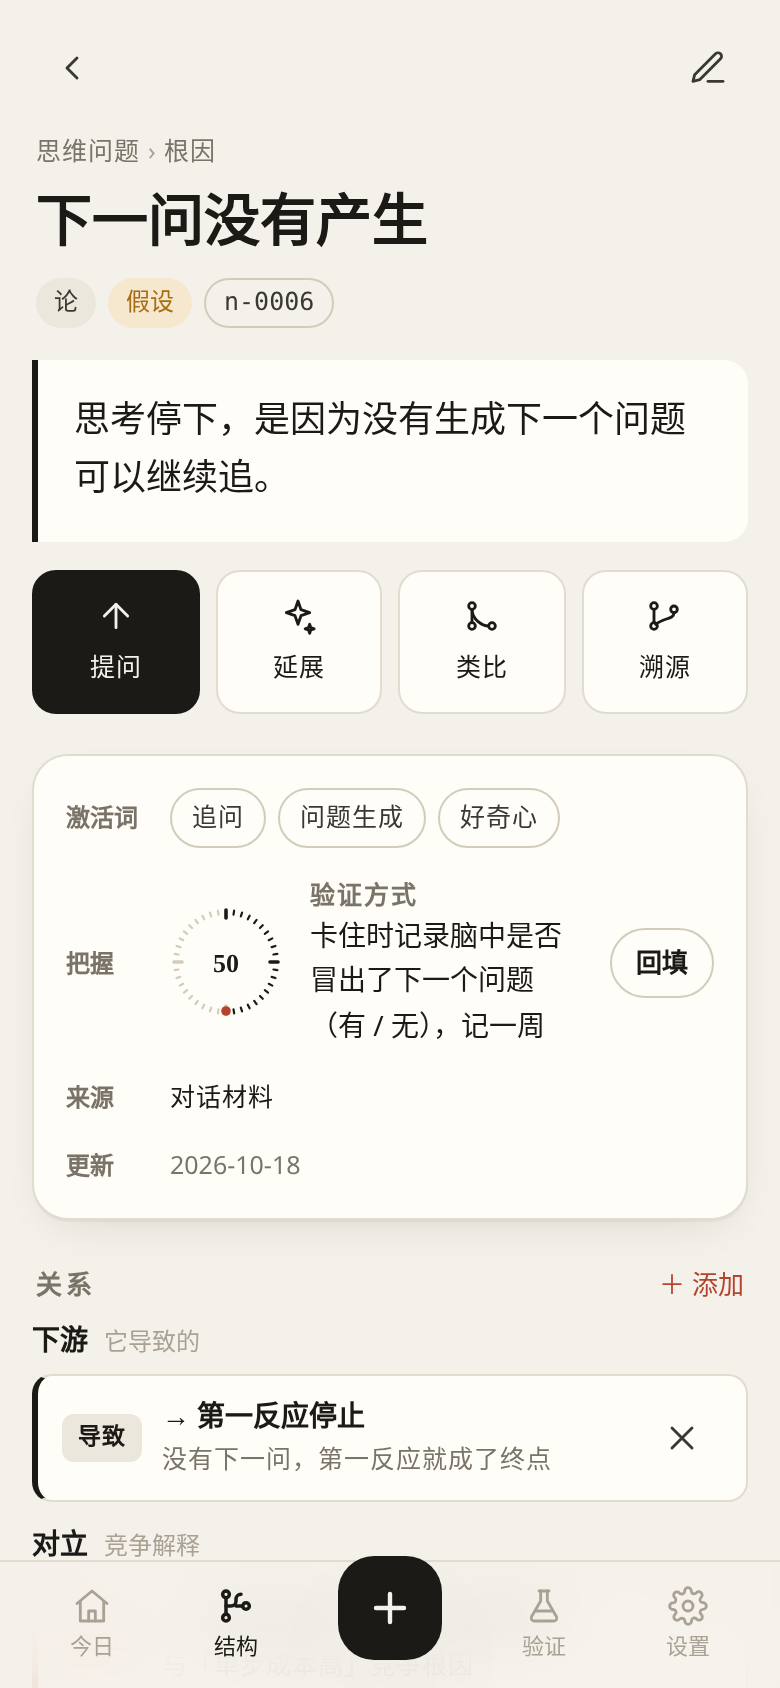
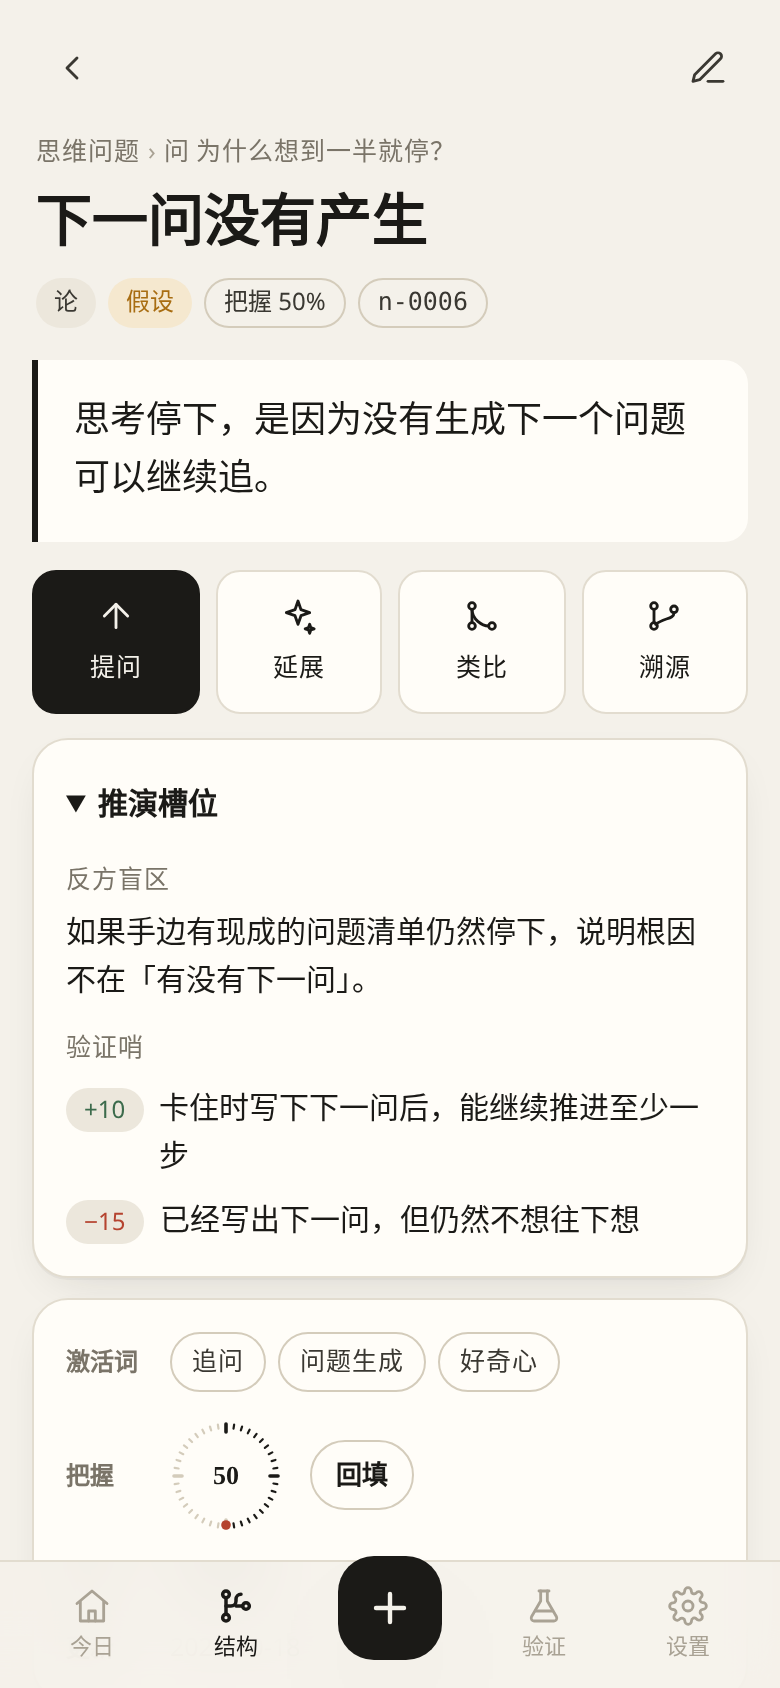
脉络 V2 T02: 节点槽位编辑与挂载选择器

diff --git a/mailuo/www/js/app.js b/mailuo/www/js/app.js
@@ -1,5 +1,5 @@
 import { h, icon, brandMark, veinArt, dial, toast, sheet, confirmSheet, waiting, glyph, nodeRow, relTag, swipeable } from './ui.js';
-import { Store, TYPES, STATUSES, blankNode, normalizeType, normalizeSentinels, REL_TYPES, REL_HINT, REL_VIEW, findDuplicate, findAnalogies, today, MOUNT_RULES } from './model.js';
+import { Store, TYPES, SLOTS, STATUSES, blankNode, normalizeType, normalizeSentinels, REL_TYPES, REL_HINT, REL_VIEW, findDuplicate, findAnalogies, today, MOUNT_RULES } from './model.js';
 import { openVault, IdbVault, FsVault, CapVault, exportZip, importZip, listSnapshots, snapshot, dailySnapshot, restoreSnapshot } from './vault.js';
 import { getConfig, setConfig, usage, callModel, PROMPT_SPLIT, splitUserMessage, extractJson, normalizeSplit, PROMPT_THINK, parseAnswer, PRESETS, estimateTokens, PROMPT_KEYWORDS, keywordsUserMessage } from './llm.js';
 import { buildPack, MODE_QUESTIONS, libraryTokens, systemOutline } from './pack.js';
@@ -370,45 +370,118 @@ function newSystemSheet() {
 }
 
 // ---------------- 节点编辑 ----------------
+// 挂载选择器供编辑、候选和体检共用；由 Store 统一判断合法目标。
+function mountPicker(getNode, initial = '') {
+  let value = initial;
+  const q = h('input', { class: 'input', type: 'search', placeholder: '搜索可挂载节点', 'aria-label': '搜索挂载目标' });
+  const list = h('div', { class: 'list mount-list', 'data-testid': 'mount-list' });
+  const label = h('summary');
+  const draw = () => {
+    const n = getNode();
+    label.textContent = '挂在：' + (store.nodes.get(value)?.title || '不挂载');
+    list.replaceChildren(h('button', { class: 'btn sm', onclick: () => { value = ''; draw(); } }, !value ? '✓ 不挂载' : '不挂载'));
+    const all = store.list().filter((x) => !store.canMount(n, x.id) && (!q.value || [x.title, ...x.keywords].some((t) => t.includes(q.value))));
+    for (const x of all) list.append(nodeRow(x, () => { value = x.id; draw(); }, value === x.id ? icon('check') : h('span', { class: 'small muted' }, x.type)));
+  };
+  q.addEventListener('input', draw);
+  draw();
+  return { el: h('details', { class: 'mount-picker' }, label, q, list), read: () => value, refresh: () => {
+    if (value && store.canMount(getNode(), value)) value = '';
+    draw();
+  } };
+}
+
+function sentinelView(sentinels) {
+  return h('div', { class: 'sentinels' }, (sentinels || []).map((s) => h('div', { class: 'sentinel' },
+    h('span', { class: 'pill ' + (s.delta > 0 ? 'positive' : s.delta < 0 ? 'negative' : 'muted') }, s.delta > 0 ? '+' + s.delta : s.delta < 0 ? '−' + Math.abs(s.delta) : '待定'),
+    h('span', {}, s.when))));
+}
+
+function slotView(n, onEmpty) {
+  return h('details', { class: 'card slots mt', open: true }, h('summary', {}, '推演槽位'),
+    (SLOTS[n.type] || []).map((s) => {
+      const value = n[s.key], empty = !value || (Array.isArray(value) && !value.length);
+      return h('div', { class: 'slot' }, h('div', { class: 'small muted' }, s.label),
+        empty ? h('button', { class: 'btn ghost sm muted', onclick: onEmpty || (() => {}) }, '待补：' + s.hint)
+          : s.kind === 'list' ? h('div', { class: 'chips' }, value.map((v) => h('span', { class: 'kw' }, v)))
+          : s.kind === 'sentinels' ? sentinelView(value) : h('p', {}, value));
+    }));
+}
+
 function nodeForm(n, { systemEditable = true } = {}) {
-  const f = {};
-  f.title = h('input', { class: 'input', value: n.title || '', placeholder: '短名' });
-  f.claim = h('textarea', { class: 'input', rows: 2, placeholder: '一句结论' }, n.claim || '');
-  f.note = h('textarea', { class: 'input', rows: 2, placeholder: '最多 3 行说明（可空）' }, n.note || '');
-  f.type = h('select', { class: 'input' }, TYPES.map((t) => h('option', { value: t, selected: t === n.type }, t)));
+  n = blankNode(n);
+  const f = {}, field = (label, input, key) => h('div', { class: 'field', 'data-field': key }, h('label', {}, label), input);
+  let type = normalizeType(n.type);
+  f.title = h('input', { class: 'input', value: n.title, 'data-testid': 'node-title', placeholder: '短名' });
+  f.claim = h('textarea', { class: 'input', rows: 2, 'data-testid': 'node-claim' }, n.claim);
+  f.note = h('textarea', { class: 'input', rows: 3 }, n.note);
   f.status = h('select', { class: 'input' }, STATUSES.map((t) => h('option', { value: t, selected: t === n.status }, t)));
-  f.keywords = h('input', { class: 'input', value: (n.keywords || []).join('、'), placeholder: '3–5 个，用顿号或逗号分隔' });
+  f.keywords = h('input', { class: 'input', value: n.keywords.join('、'), placeholder: '3–5 个，用顿号或逗号分隔' });
   const confLabel = h('span', {}, (n.confidence ?? 50) + '%');
-  f.confidence = h('input', { type: 'range', min: 0, max: 100, step: 5, value: n.confidence ?? 50, oninput: () => { confLabel.textContent = f.confidence.value + '%'; } });
-  f.verify = h('input', { class: 'input', value: n.verify || '', placeholder: '一句话，假设类必填' });
-  f.source = h('input', { class: 'input', value: n.source || '', placeholder: '自己 / AI 名称 / 资料' });
+  f.confidence = h('input', { type: 'range', min: 0, max: 100, step: 1, value: n.confidence ?? 50, 'aria-label': '把握', oninput: () => { confLabel.textContent = f.confidence.value + '%'; } });
+  f.source = h('input', { class: 'input', value: n.source, placeholder: '自己 / AI 名称 / 资料' });
   f.system = h('select', { class: 'input', disabled: !systemEditable }, [...store.systems.keys()].map((s) => h('option', { value: s, selected: s === n.system }, s)));
-  const parentWrap = h('div', { class: 'small muted' }, '挂在：' + (store.nodes.get(n.under)?.title || '不挂载'));
-  const el = h('div', {},
-    h('div', { class: 'field' }, h('label', {}, '标题'), f.title),
-    h('div', { class: 'field' }, h('label', {}, '结论'), f.claim),
-    h('div', { class: 'row' }, h('div', { class: 'field' }, h('label', {}, '类型'), f.type), h('div', { class: 'field' }, h('label', {}, '状态'), f.status)),
-    h('div', { class: 'field' }, h('label', {}, '激活词'), f.keywords),
-    h('div', { class: 'field' }, h('label', {}, '把握 ', confLabel), f.confidence),
-    h('div', { class: 'field' }, h('label', {}, '验证方式'), f.verify),
-    h('div', { class: 'row' }, h('div', { class: 'field' }, h('label', {}, '体系'), f.system), h('div', { class: 'field' }, h('label', {}, '挂载'), parentWrap)),
-    h('div', { class: 'field' }, h('label', {}, '说明'), f.note),
-    h('div', { class: 'field' }, h('label', {}, '来源'), f.source));
+  f.pillars = h('textarea', { class: 'input', rows: 3, placeholder: '每行一条，最多 3 条' }, n.pillars.join('\n'));
+  f.blindspot = h('textarea', { class: 'input', rows: 2 }, n.blindspot);
+  f.triggers = h('textarea', { class: 'input', rows: 3, placeholder: '每行一条，最多 3 条' }, n.triggers.join('\n'));
+  f.cost = h('textarea', { class: 'input', rows: 2 }, n.cost);
+  f.paused = h('input', { type: 'checkbox', checked: n.paused });
+  const sentinelRows = h('div', { class: 'list' });
+  const addSentinel = (s = {}) => {
+    const when = h('input', { class: 'input', value: s.when || '', placeholder: '看到什么现象', 'aria-label': '验证哨现象' });
+    const delta = h('input', { class: 'input', type: 'number', min: -30, max: 30, step: 5, value: s.delta ?? 0, 'aria-label': '验证哨分值' });
+    const row = h('div', { class: 'sentinel-edit' }, when, delta, h('button', { class: 'iconbtn', 'aria-label': '删除验证哨', onclick: () => row.remove() }, icon('x')));
+    sentinelRows.append(row);
+  };
+  n.sentinels.forEach(addSentinel);
+  const picker = mountPicker(() => ({ ...n, type }), n.under);
+  const claimLabel = h('label');
+  const typed = {
+    pillars: field('破局支柱', f.pillars, 'pillars'),
+    status: field('状态', f.status, 'status'),
+    confidence: field(h('span', {}, '把握 ', confLabel), f.confidence, 'confidence'),
+    blindspot: field('反方盲区', f.blindspot, 'blindspot'),
+    sentinels: field('验证哨', h('div', {}, sentinelRows, h('button', { class: 'btn sm mt', 'data-testid': 'add-sentinel', onclick: () => addSentinel() }, '＋ 验证哨')), 'sentinels'),
+    triggers: field('触发场景', f.triggers, 'triggers'),
+    cost: field('破戒代价', f.cost, 'cost'),
+    paused: field('暂停', f.paused, 'paused'),
+  };
+  const seg = h('div', { class: 'seg', 'data-testid': 'node-type' }, TYPES.map((t) => h('button', { onclick: () => { type = t; draw(); } }, t)));
+  const draw = () => {
+    seg.querySelectorAll('button').forEach((b) => b.classList.toggle('on', b.textContent === type));
+    claimLabel.textContent = type === '规' ? '唯一动作' : '结论';
+    const keys = new Set((SLOTS[type] || []).map((s) => s.key));
+    if (type !== '问') keys.add('confidence');
+    if (type === '论') keys.add('status');
+    if (type === '规') keys.add('paused');
+    for (const [key, el] of Object.entries(typed)) el.hidden = !keys.has(key);
+    picker.refresh();
+  };
+  const el = h('div', {}, field('类型', seg), field('标题', f.title), h('div', { class: 'field' }, claimLabel, f.claim),
+    ...Object.values(typed), field('激活词', f.keywords), field('体系', f.system), field('挂载', picker.el),
+    h('details', { class: 'mt' }, h('summary', {}, '更多'), field('说明', f.note), field('来源', f.source)));
+  const lines = (input) => input.value.split('\n').map((s) => s.trim()).filter(Boolean).slice(0, 3);
   const read = () => ({
     title: f.title.value.trim(), claim: f.claim.value.trim(), note: f.note.value.trim().split('\n').slice(0, 3).join('\n'),
-    type: f.type.value, status: f.status.value,
-    keywords: f.keywords.value.split(/[,，、;；\s]+/).map((s) => s.trim()).filter(Boolean).slice(0, 5),
-    confidence: +f.confidence.value, verify: f.verify.value.trim(), source: f.source.value.trim(),
-    system: f.system.value, parent: n.parent || '', under: n.under || '',
+    type, status: f.status.value, keywords: f.keywords.value.split(/[,，、;；\s]+/).filter(Boolean).slice(0, 5),
+    confidence: type === '问' ? null : +f.confidence.value, verify: n.verify, source: f.source.value.trim(),
+    system: f.system.value, parent: n.parent, under: picker.read(), pillars: lines(f.pillars), blindspot: f.blindspot.value.trim(),
+    sentinels: normalizeSentinels([...sentinelRows.children].map((row) => ({ when: row.querySelector('input').value, delta: row.querySelector('input[type=number]').value }))),
+    triggers: lines(f.triggers), cost: f.cost.value.trim(), paused: f.paused.checked,
   });
+  draw();
   return { el, read };
 }
 
 function validate(d) {
   if (!d.title) return '标题不能为空';
   if (!d.claim) return '结论不能为空';
-  if (d.type === '论' && d.status === '假设' && !d.verify) return '假设类节点必须写验证方式';
   return '';
+}
+
+async function confirmSlots(d, action = '保存') {
+  const message = d.type === '论' && !d.sentinels?.length ? '至少写一条验证哨' : d.type === '规' && !d.triggers?.length ? '至少写一个触发场景' : '';
+  return !message || await confirmSheet('槽位待补', message + '，也可以稍后补全。', '仍然' + action);
 }
 
 function newNodeSheet(system, under = '', type = '论') {
@@ -419,7 +492,12 @@ function newNodeSheet(system, under = '', type = '论') {
       const d = form.read();
       const err = validate(d);
       if (err) return toast(err);
-      const n = await store.saveNode(blankNode({ id: store.nextId(), ...d }));
+      if (!(await confirmSlots(d))) return;
+      const node = blankNode({ id: store.nextId(), ...d, under: '' });
+      const mountError = store.canMount(node, d.under);
+      if (mountError) return toast(mountError);
+      const n = await store.saveNode(node);
+      if (d.under) await store.mount(n.id, d.under);
       close(); go('#/node/' + n.id);
     } }, '保存'));
   });
@@ -433,8 +511,13 @@ function editNodeSheet(n) {
         const d = form.read();
         const err = validate(d);
         if (err) return toast(err);
-        Object.assign(n, d);
+        if (!(await confirmSlots(d))) return;
+        const mountError = store.canMount({ ...n, ...d }, d.under);
+        if (mountError) return toast(mountError);
+        const oldUnder = n.under;
+        Object.assign(n, d, { under: oldUnder });
         await store.saveNode(n);
+        if (d.under !== oldUnder) await store.mount(n.id, d.under);
         close(); route(); toast('已保存');
       } }, '保存'),
       h('button', { class: 'btn ghost danger block mt', onclick: async () => {
@@ -450,9 +533,9 @@ function viewNode(id) {
   if (!n) return [topbarBack('节点'), h('div', { class: 'empty' }, h('h3', {}, '找不到这个节点'))];
   const out = [topbarBack('', h('button', { class: 'iconbtn', onclick: () => editNodeSheet(n), 'aria-label': '编辑' }, icon('edit')))];
   out.push(h('div', { class: 'node-hero' },
-    h('div', { class: 'path' }, store.pathOf(n).slice(0, -1).map((p) => h('span', {}, p))),
+    h('div', { class: 'path' }, h('span', { onclick: () => go('#/tree?sys=' + encodeURIComponent(n.system)) }, n.system), store.ancestors(id).reverse().map((p) => h('span', { onclick: () => go('#/node/' + p.id) }, p.type + ' ' + p.title))),
     h('h1', {}, n.title),
-    h('div', { class: 'chips' }, h('span', { class: 'pill' }, n.type), h('span', { class: 'pill ' + n.status }, n.status), h('span', { class: 'pill outline mono' }, n.id),
+    h('div', { class: 'chips' }, h('span', { class: 'pill' }, n.type), n.type === '论' ? h('span', { class: 'pill ' + n.status }, n.status) : null, n.type !== '问' ? h('span', { class: 'pill outline' }, '把握 ' + (n.confidence ?? '—') + '%') : null, n.type === '规' && n.paused ? h('span', { class: 'pill accent' }, '暂停') : null, h('span', { class: 'pill outline mono' }, n.id),
       n.yamlError ? h('span', { class: 'pill accent' }, 'YAML 有误') : null)));
   out.push(h('div', { class: 'claim-big mt' }, n.claim), n.note ? h('div', { class: 'note' }, n.note) : null);
 
@@ -462,10 +545,10 @@ function viewNode(id) {
     h('div', { class: 'action', onclick: () => go('#/ask/' + id + '?mode=analogy') }, icon('merge'), '类比'),
     h('div', { class: 'action', onclick: () => go('#/trace/' + id) }, icon('branch'), '溯源')));
 
+  out.push(slotView(n, () => editNodeSheet(n)));
   out.push(h('div', { class: 'card mt2' }, h('dl', { class: 'meta-grid', style: { margin: 0 } },
     h('dt', {}, '激活词'), h('dd', {}, h('div', { class: 'chips' }, n.keywords.length ? n.keywords.map((k) => h('span', { class: 'kw' }, k)) : h('span', { class: 'small muted' }, '未填'))),
-    h('dt', {}, '把握'), h('dd', {}, h('div', { class: 'verify-box' }, dial(n.confidence, 56, false),
-      h('div', { class: 'vt' }, h('div', { class: 'label' }, '验证方式'), h('div', {}, n.verify || h('span', { class: 'muted' }, '—'))),
+    h('dt', {}, n.type === '问' ? '反馈' : '把握'), h('dd', {}, h('div', { class: 'verify-box' }, n.type !== '问' ? dial(n.confidence, 56, false) : null,
       h('button', { class: 'btn sm', onclick: () => backfillSheet(n), 'data-testid': 'backfill' }, '回填'))),
     h('dt', {}, '来源'), h('dd', { class: 'small' }, n.source || '—'),
     h('dt', {}, '更新'), h('dd', { class: 'small muted' }, (n.updated || '—') + (n.checks.length ? ' · 回填 ' + n.checks.length + ' 次' : '')))));
@@ -473,8 +556,12 @@ function viewNode(id) {
   if (n.checks.length) {
     out.push(h('h2', { class: 'section' }, '验证记录'));
     out.push(h('div', { class: 'list' }, n.checks.slice().reverse().map((c) => h('div', { class: 'card flat', style: { padding: '12px 14px' } },
-      h('div', { class: 'small muted' }, c.date + ' · ' + (c.status || '') + (c.confidence != null ? ' · 把握 ' + c.confidence + '%' : '')), h('div', {}, c.result)))));
+      h('div', { class: 'small muted' }, c.date + ' · ' + (c.kind || c.status || '') + (c.confidence != null ? ' · 把握 ' + c.confidence + '%' : '')), h('div', {}, c.result)))));
   }
+
+  out.push(h('h2', { class: 'section' }, '下级'));
+  out.push(h('div', { class: 'list' }, store.children(id).map((c) => nodeRow(c, () => go('#/node/' + c.id)))));
+  if (n.type !== '规') out.push(h('button', { class: 'btn sm mt', onclick: () => childNodeSheet(n) }, '＋ 挂一个论/规'));
 
   // 关系视图
   const rels = store.relations(id);

diff --git a/mailuo/www/js/model.js b/mailuo/www/js/model.js
@@ -346,14 +346,15 @@ export class Store {
   }
   // 能不能把 childId 挂到 parentId 下面；能挂返回 ''，否则返回原因
   canMount(childId, parentId) {
-    const c = this.nodes.get(childId);
+    const c = typeof childId === 'object' ? childId : this.nodes.get(childId);
     if (!c) return '节点不存在';
+    childId = c.id;
     if (!parentId) return '';
     const p = this.nodes.get(parentId);
     if (!p) return '目标节点不存在';
     if (childId === parentId) return '不能挂在自己下面';
     if (!MOUNT_RULES[c.type].includes(p.type)) return '「' + c.type + '」只能挂在「' + MOUNT_RULES[c.type].join(' / ') + '」下面';
-    if (this.descendants(childId).some((d) => d.id === parentId)) return '不能挂到自己的下级下面（会成环）';
+    if (childId && this.descendants(childId).some((d) => d.id === parentId)) return '不能挂到自己的下级下面（会成环）';
     return '';
   }
   async mount(childId, parentId) {

diff --git a/mailuo/www/css/app.css b/mailuo/www/css/app.css
@@ -429,3 +429,17 @@ details.manual > .btn.block { width: calc(100% - 32px); }
 .rule-row { border-left: 2px solid var(--accent); }
 .paused { opacity: .55; }
 .node-row .title .pill { margin-left: 6px; }
+
+/* V2 槽位与表单 */
+[hidden] { display: none !important; }
+.slots summary, .mount-picker summary { cursor: pointer; font-weight: 600; padding: 4px 0; }
+.slot { margin-top: 12px; }
+.slot p { margin: 4px 0; }
+.slot .chips { margin-top: 6px; }
+.sentinel { display: flex; align-items: baseline; gap: 8px; margin-top: 8px; }
+.positive { color: var(--green); }
+.negative { color: var(--accent); }
+.sentinel-edit { display: grid; grid-template-columns: minmax(0, 1fr) 72px 28px; align-items: center; gap: 6px; }
+.mount-list { max-height: 230px; overflow-y: auto; margin-top: 8px; }
+.mount-picker .input { margin-top: 8px; }
+.path span { cursor: pointer; }
